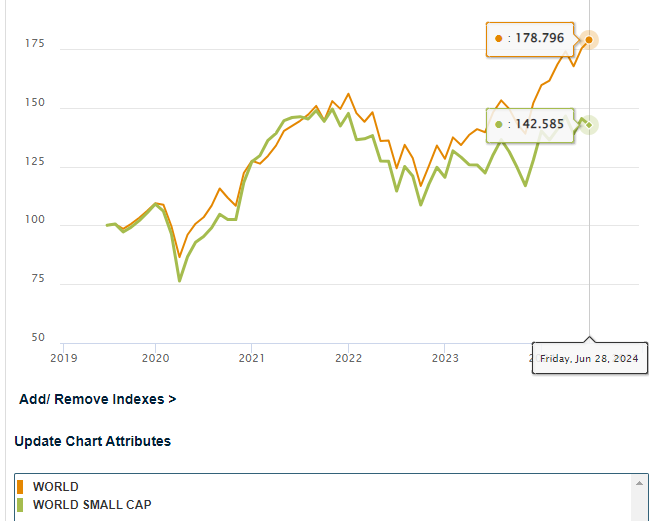
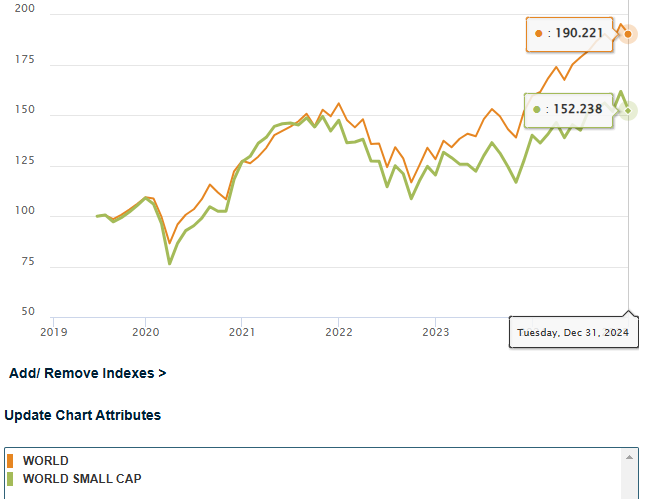
Update bet-of-the-decade

diff --git a/blog/bet-of-the-decade.html b/blog/bet-of-the-decade.html
@@ -72,7 +72,7 @@
 <section class="row">
 <div class="coffee-span-12 header">
 <h3 class="heading-1" style="direction: rtl; font-size: 40px; padding-bottom: 20px;">התערבות העשור: השקעה פאסיבית מול מנוהלת</h3>
-<p class="paragraph" style="font-size:12px;">פורסם בתאריך 30.6.2019, עדכון אחרון ב-15.7.2024</p>
+<p class="paragraph" style="font-size:12px;">פורסם בתאריך 30.6.2019, עדכון אחרון ב-9.1.2025</p>
 <p class="paragraph" style="font-size:12px;">התכנים בפוסט זה, כמו כל שאר התכנים בבלוג, הינם תכנים לימודיים במהותם, הם אינם מהווים ייעוץ או המלצה לביצוע פעולה בנייר ערך, ואין לראות בהם תחליף לייעוץ השקעות ו/או ייעוץ פנסיוני המתחשב בצרכיו הייחודיים של כל אדם.</p>
 <br>
 <div class="container table-row">
@@ -118,17 +118,17 @@
 <p class="paragraph"><b>מדוע דווקא המדדים הללו?</b> כיוון שמדדי מניות קטנות מספקים תשואה היסטורית (נומינלית) של כ-12% לשנה בממוצע רב-שנתי, ומדדי מניות גדולות מספקים תשואה של כ-10% לשנה בממוצע רב-שנתי, יש היגיון בחשיפה משמעותית של התיק גם למניות קטנות ולא רק למניות גדולות או מניות ענק כמו המניות הכלולות במדד ה-S&P 500 למשל (כמובן שהתשואה העודפת באה ע"ח תנודתיות גבוהה יותר). הסיבה לבחירת שני מדדים ולא מדד גלובלי אחד שכולל גם חברות גדולות וגם קטנות (כדוגמת MSCI World All Cap Index) היא שהמשקל של כמה מאות מניות ענק במדד עולמי אחד מהווה כ-80% מכלל המדד, כך שאלפי חברות קטנות יותר מקבלות חשיפה מאוד נמוכה. לכן, בחר רונן להקצות 50% מהתיק למדד מניות גדולות ו-50% למדד מניות קטנות. אין לראות בתיק זה משום המלצה לביצוע פעולה בניירות ערך או לייעוץ השקעות המתחשב בצרכיו הייחודיים של כל אדם.</p>
 
 <p class="paragraph" style="padding-top: 20px; font-size:22px; color: #829F16" id="results">תוצאות ההתערבות</p>
-<p class="paragraph">התוצאות שלהלן הינן התוצאות המצטברות ממועד תחילת ההתערבות (ה-1.7.2019) ועד ה-1.7.2024. נכון למועד זה:</p>
-<p class="paragraph">התיק של יואב השיג תשואה מצטברת של <b>27.6%</b>.</p>
-<p class="paragraph">התיק של רונן השיג תשואה מצטברת של <b>60.69%</b>.</p>
-<p class="paragraph">הפרש התשואות עומד כרגע על <b>33.09%</b> לזכות התיק של רונן, המהווה גידול של 0.42% בשינוי בפער בין התיקים מהחציון הקודם.</p>
+<p class="paragraph">התוצאות שלהלן הינן התוצאות המצטברות ממועד תחילת ההתערבות (ה-1.7.2019) ועד ה-5.1.2025. נכון למועד זה:</p>
+<p class="paragraph">התיק של יואב השיג תשואה מצטברת של <b>56.92%</b>.</p>
+<p class="paragraph">התיק של רונן השיג תשואה מצטברת של <b>71.23%</b>.</p>
+<p class="paragraph">הפרש התשואות עומד כרגע על <b>14.31%</b> לזכות התיק של רונן, המהווה קיטון של 18.78% בהפרש התשואות מהחציון הקודם.</p>
 <br>
 <p class="paragraph" style="font-size:18px;">סיכום תוצאות התיק של יואב</p>
-<p class="paragraph">התיק של יואב התחיל משווי של $3,455, ובנטרול עמלות הקניה החד פעמיות ($158) כמתואר בפרטי ההתערבות שלעיל, עמד על שווי של $3,613. נכון למועד הדיווח התיק עמד על שווי של $4,690, כלומר שווי של $4,848 בנטרול עמלת הקניה, שווי המגלם תשואה ברוטו של 34.18%. בניכוי דמי הניהול המצטברים ($238) עומדת התשואה על 27.6%. הטבלה שלהלן מפרטת את התשואות של כל אחת מהמניות בתיק של יואב.</p>
+<p class="paragraph">התיק של יואב התחיל משווי של $3,455, ובנטרול עמלות הקניה החד פעמיות ($158) כמתואר בפרטי ההתערבות שלעיל, עמד על שווי של $3,613. נכון למועד הדיווח התיק עמד על שווי של $5,785, כלומר שווי של $5,943 בנטרול עמלת הקניה, שווי המגלם תשואה ברוטו של 64.48%. בניכוי דמי הניהול המצטברים ($273) עומדת התשואה על 56.92%. הטבלה שלהלן מפרטת את התשואות של כל אחת מהמניות בתיק של יואב.</p>
 <p class="paragraph" style="text-align: center;"><img src="../images/results-yoav.png" alt="results-yoav"></p>
 <br>
 <p class="paragraph" style="font-size:18px;">סיכום תוצאות התיק של רונן</p>
-<p class="paragraph">התיק של רונן התחיל משווי של $200 ($100 לכל מדד) ועמד נכון למועד הדיווח על שווי של $321.38, המגלם תשואה של 60.69%. הגרף שלהלן מציג את התשואה של שני המדדים בתיק של רונן.</p>
+<p class="paragraph">התיק של רונן התחיל משווי של $200 ($100 לכל מדד) ועמד נכון למועד הדיווח על שווי של $342.46, המגלם תשואה של 71.23%. הגרף שלהלן מציג את התשואה של שני המדדים בתיק של רונן.</p>
 <p class="paragraph" style="text-align: center;"><img src="../images/results-ronen.png" alt="results-ronen"></p>
 <br>
 <script type='text/javascript' src='//form.ravpage.co.il/fbafa30d95b851a0b3ba5984f76428c55E9FF981' charset='UTF-8'></script>
